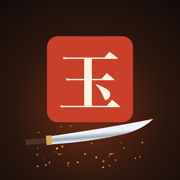
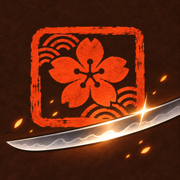
玉鋼工房 202611031550-47c4d64（PR #6 の版：チャッピーの絵）

diff --git a/js/scenes.js b/js/scenes.js
@@ -4,7 +4,7 @@
 import * as R from './rules.js';
 import * as D from './draw.js';
 import * as S from './sound.js';
-import {artBox} from './art.js';
+import {artBox,artImage} from './art.js';
 
 const after=(api,ms,fn)=>api.later(ms,fn);
 
@@ -43,14 +43,16 @@ export class Heat{
   const b=this.box(w,h);this.lastBox=b;
   D.backdrop(ctx,w,h,'heat');
   D.fireLight(ctx,b.x+b.w/2,b.y+b.h*0.5,Math.max(w,h)*0.7,this.blowing?1.2:0.7,t);
-  D.flames(ctx,b,t,this.blowing?1:0.25);
+  // over the owner's painted fire, the code flames only add the flicker and the bellows' roar
+  const own=!!artImage('bg-heat');
+  ctx.save();if(own)ctx.globalAlpha=this.blowing?0.75:0.35;D.flames(ctx,b,t,this.blowing?1:0.25);ctx.restore();
   // the steel in the coals, held by the tongs from the right
   const bar=R.form(this.api.run.form).bar,y=b.y+b.h*0.5,len=b.w*0.6*bar,x=b.x+b.w*0.78-len,th=Math.max(16,b.h*0.22);
   D.steelBar(ctx,x,y,len,th,this.temp);D.tongs(ctx,x+len-4,y,w+10,th*0.32);
   ctx.save();ctx.globalAlpha=0.45;D.flames(ctx,{x:b.x,y:b.y+b.h*0.45,w:b.w,h:b.h*0.55},t+1.3,this.blowing?0.4:0.05);ctx.restore();
-  // bellows handle
-  const f=D.bellowsBox(w,h),pull=this.blowing?(Math.sin(this.pump)*0.5+0.5)*f.w*0.6:0;
-  ctx.fillStyle='#2e2018';ctx.fillRect(f.x+f.w*0.2-pull,f.y+f.h*0.45,f.w*0.9,5);ctx.fillStyle='#6b4a33';ctx.fillRect(f.x-6-pull+f.w*0.2,f.y+f.h*0.3,7,f.h*0.4);
+  // bellows handle (the painted picture has its own bellows)
+  if(!own){const f=D.bellowsBox(w,h),pull=this.blowing?(Math.sin(this.pump)*0.5+0.5)*f.w*0.6:0;
+  ctx.fillStyle='#2e2018';ctx.fillRect(f.x+f.w*0.2-pull,f.y+f.h*0.45,f.w*0.9,5);ctx.fillStyle='#6b4a33';ctx.fillRect(f.x-6-pull+f.w*0.2,f.y+f.h*0.3,7,f.h*0.4);}
   this.sparks.draw(ctx);
   const gh=Math.min(h*0.4,b.y-h*0.08-14),gx=w-34,gy=Math.max(12,b.y-gh-26);
   D.gauge(ctx,gx,gy,16,gh,{lo:650,hi:1300,temp:this.temp,band:[R.HEAT.center-this.half,R.HEAT.center+this.half],danger:R.HEAT.burn,label:'いい色'});
@@ -221,7 +223,7 @@ export class Quench{
   const L=artBox('bg-quench',w,h)||D.longHearth(w,h),T=D.troughBox(w,h);
   D.backdrop(ctx,w,h,'quench');
   D.fireLight(ctx,L.x+L.w/2,L.y+L.h/2,Math.max(w,h)*0.6,0.9,t);
-  D.flames(ctx,L,t,0.55);
+  ctx.save();if(artImage('bg-quench'))ctx.globalAlpha=0.45;D.flames(ctx,L,t,0.55);ctx.restore();
   const hy=L.y+L.h*0.52,wy=T.y+T.h*0.55;
   let y=hy;if(this.phase==='plunge')y=hy+(wy-hy)*Math.min(1,this.k/0.8);else if(this.phase==='sori'||this.phase==='done')y=wy-T.h*0.95*Math.min(1,this.k*2);
   const S=D.SHAPE[this.api.run.form]||D.SHAPE.katana,bl=L.w*0.82*Math.max(0.45,S.len),x0=L.x+L.w*0.95-bl;
@@ -304,7 +306,9 @@ export class Polish{
   if(this.rubbing&&this.last){const sw=G.wid*0.84,sh=G.wid*0.38;ctx.save();ctx.translate(this.last.x,this.last.y);ctx.rotate(-0.08);ctx.fillStyle='rgba(0,0,0,0.25)';D.roundRect(ctx,-sw/2+3,-sh/2+5,sw,sh,6);ctx.fill();ctx.fillStyle='#c9b48f';D.roundRect(ctx,-sw/2,-sh/2,sw,sh,6);ctx.fill();ctx.fillStyle='#a8916b';ctx.fillRect(-sw/2+4,sh*0.18,sw-8,sh*0.24);ctx.restore();}
   // time
   const tw=w-32;ctx.fillStyle='rgba(0,0,0,0.4)';D.roundRect(ctx,16,12,tw,8,4);ctx.fill();ctx.fillStyle=this.left<4?'#e0604a':D.C.gold;D.roundRect(ctx,16,12,tw*(this.left/R.POLISH.seconds),8,4);ctx.fill();
-  ctx.fillStyle='rgba(255,240,215,0.9)';ctx.font='12px "Hiragino Sans","Yu Gothic",sans-serif';ctx.textAlign='right';ctx.fillText(this.started?`のこり ${Math.ceil(this.left)}秒`:'こすると時間が進む',w-16,36);
+  const label=this.started?`のこり ${Math.ceil(this.left)}秒`:'こすると時間が進む';ctx.font='12px "Hiragino Sans","Yu Gothic",sans-serif';
+  const lw=ctx.measureText(label).width;ctx.fillStyle='rgba(20,12,8,0.6)';D.roundRect(ctx,w-24-lw,24,lw+16,18,9);ctx.fill();
+  ctx.fillStyle='rgba(255,240,215,0.95)';ctx.textAlign='right';ctx.fillText(label,w-16,37);
  }
  qa(){const G=this.G;return G?{coverage:this.coverage(),scratches:this.scratches.length,done:this.done,left:this.left,pointAt:(u,s)=>({x:G.X(u),y:G.edge(u)-(G.edge(u)-G.back(u))*s})}:{};}
 }

diff --git a/sw.js b/sw.js
@@ -1,5 +1,5 @@
 // 玉鋼工房：オンラインなら最新を読み込み、読み込んだファイルはスマホに保存してオフラインでも遊べるようにする
-const CACHE="tamahagane-202611031521-61e07bb";
+const CACHE="tamahagane-202611031550-47c4d64";
 const CORE=["./","./index.html","./style.css","./manifest.webmanifest","./icon-192.png","./icon-512.png","./apple-touch-icon.png"];
 self.addEventListener("install",e=>{e.waitUntil(caches.open(CACHE).then(c=>c.addAll(CORE)));self.skipWaiting();});
 self.addEventListener("activate",e=>{e.waitUntil(caches.keys().then(ks=>Promise.all(ks.filter(k=>k.startsWith("tamahagane-")&&k!==CACHE).map(k=>caches.delete(k)))));self.clients.claim();});

diff --git a/index.html b/index.html
@@ -15,7 +15,7 @@
 <meta name="mobile-web-app-capable" content="yes">
 <meta name="apple-mobile-web-app-status-bar-style" content="black-translucent">
 <meta name="apple-mobile-web-app-title" content="玉鋼工房">
-<meta name="tamahagane-build" content="202611031521-61e07bb">
+<meta name="tamahagane-build" content="202611031550-47c4d64">
 </head>
 <body>
 <div id="app" data-mode="title">
